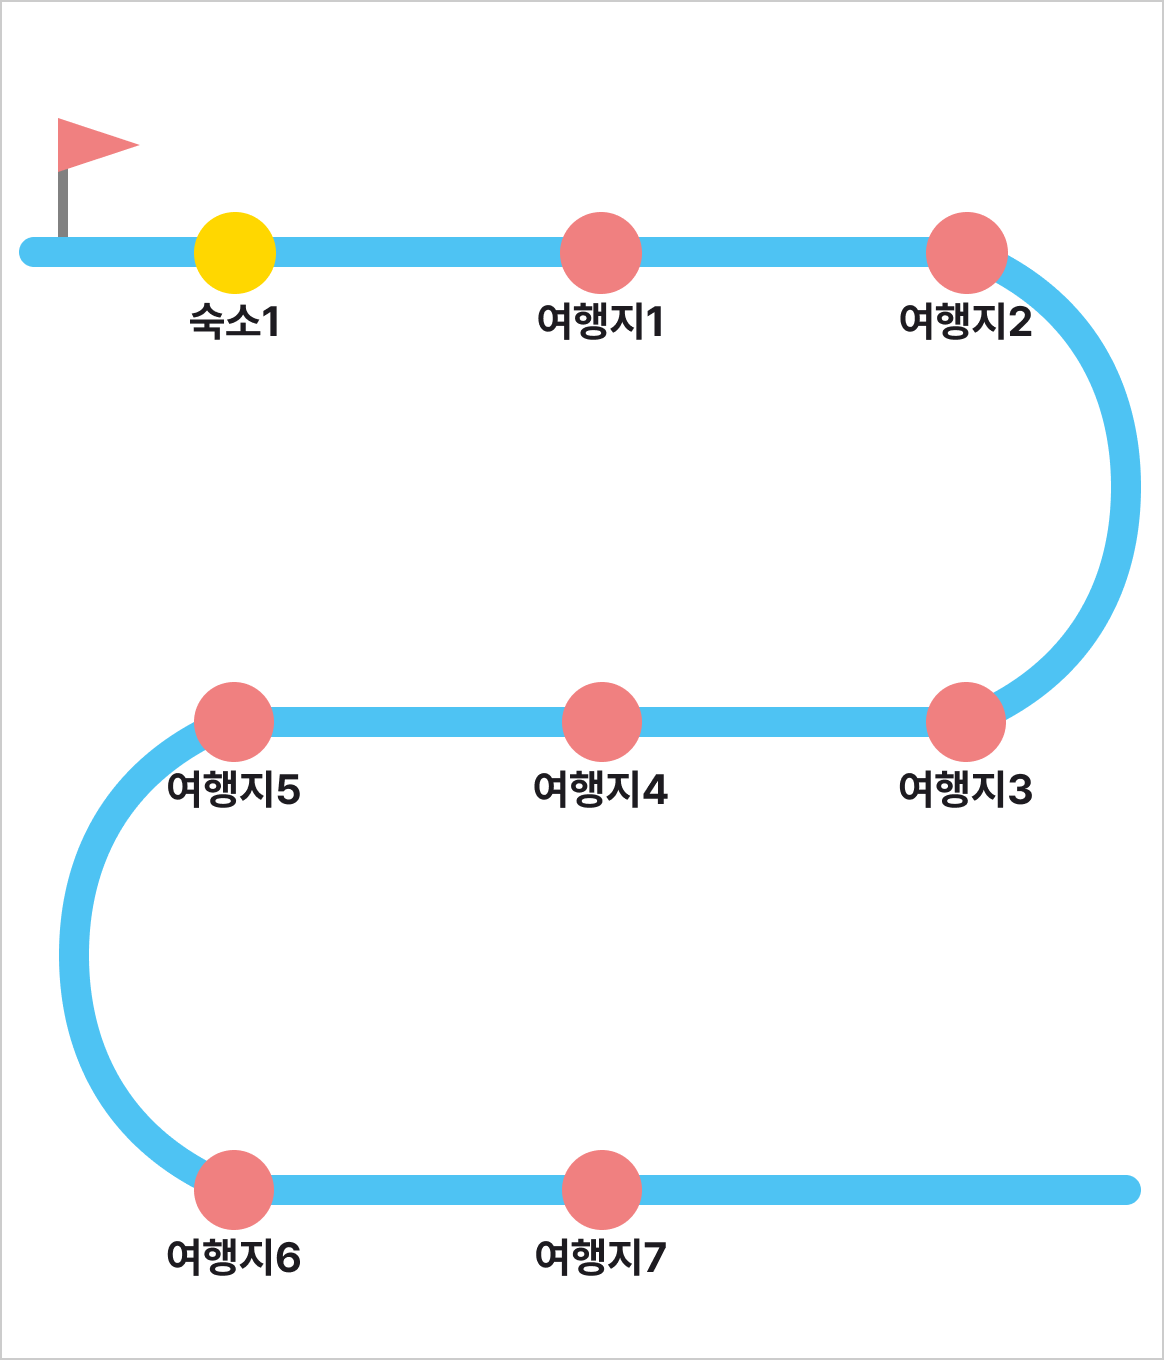
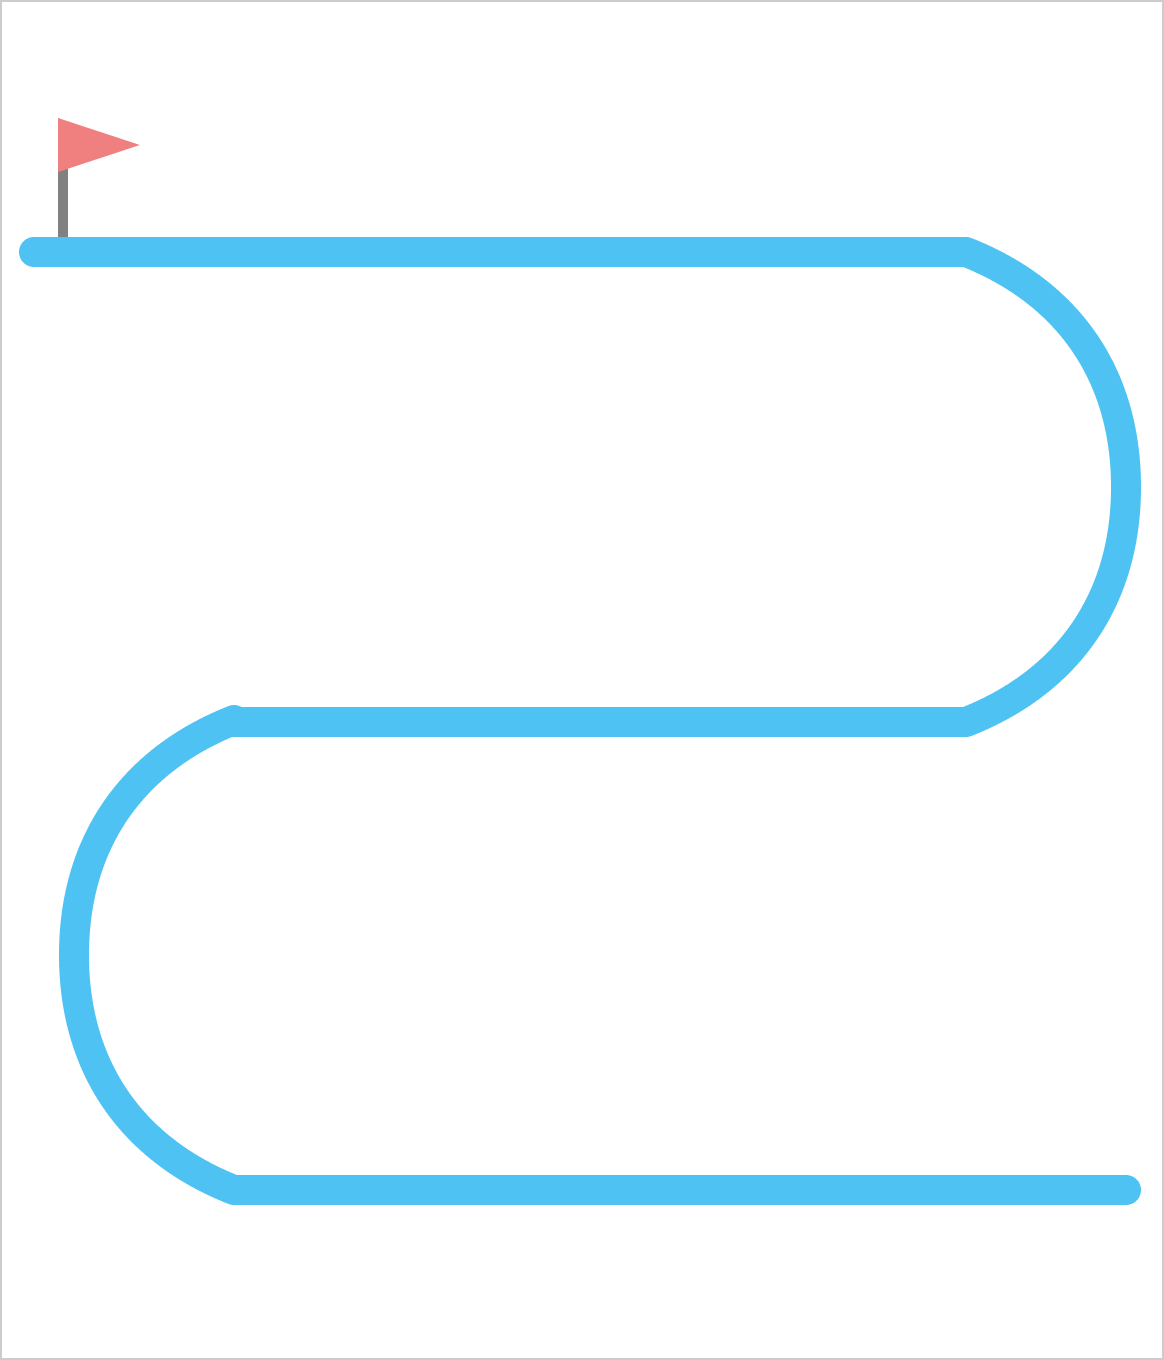
동선 수정

diff --git a/src/pages/PlanRoomResult.jsx b/src/pages/PlanRoomResult.jsx
@@ -14,6 +14,8 @@ import OutImage from '../buttonimage/outbutton.png';
 import prevImage from '../buttonimage/prebutton.png';
 import DownImage from '../buttonimage/down.png';
 import SaveImage from '../buttonimage/save.png';
+import TravelImage from '../buttonimage/travel.png';
+import RouteImage from '../buttonimage/route.png';
 import html2canvas from 'html2canvas';
 import * as XLSX from 'xlsx';
 // 전체
@@ -83,7 +85,7 @@ const SectionTitle = styled.h2`
 
 const StyledMapContainer = styled.div`
   width: 100%;
-  height: 515px;
+  height: 630px;
   background-color: #f0f0f0;
   box-shadow: 0px 4px 8px rgba(0, 0, 0, 0.1);
   display: flex;
@@ -122,7 +124,8 @@ const Button = styled.button`
 `;
 
 const RouteContainer = styled.div`
-  height: 475px;
+  background: url(${TravelImage}) no-repeat center center;
+  height: 580px;
   background-size: cover;
   padding: 20px;
   position: relative;
@@ -130,16 +133,47 @@ const RouteContainer = styled.div`
   flex-direction: column;
   align-items: center;
   gap: 10px;
-  border: 2px solid black;
+  border: 1px solid lightgray;
+`;
+
+const FlexWrap = styled.div`
+  display: flex;
+  flex-wrap: wrap;
+  margin: 0px 30px 0px 30px;
+  gap: 55px; /* Adjust gap to fit both items and buttons */
+`;
+
+const Circle = styled.div`
+  position: absolute;
+  top: -20px; /* 동그라미 위치 조정 */
+  left: 50%;
+  transform: translateX(-50%);
+  width: 40px;
+  height: 40px;
+  background-color: #f08080;
+  border-radius: 50%;
+  z-index: 2;
+`;
+
+const Item = styled.div`
+  display: ${({ isIncludedInRoute }) => (isIncludedInRoute ? 'flex' : 'none')};
+  position: relative; // 상대적 위치 설정
+  z-index: 1; // 기본적으로 장소가 다른 요소보다 아래에 표시됨
+  margin: 67px 30px; //개별
+  order: ${({ order }) => order}; // 순서 설정
 `;
 
 const RouteButton = styled.div`
-  color: black;
-  font-size: 15px;
+  position: absolute; // 절대 위치로 설정
+  right: -90px; // 장소의 오른쪽으로 위치 조정
+  top: 50%; // 수직 중앙에 위치
+  transform: translateY(-50%); // 수직 중앙 정렬
+  width: 50px;
+  height: 20px;
+  background: url(${RouteImage}) no-repeat center center;
+  background-size: contain;
+  border: none;
   cursor: pointer;
-  background-color: rgb(0, 0, 0, 0);
-  border-radius: 5px;
-  text-align: center;
 `;
 
 const BottomWrapper = styled.div`
@@ -247,24 +281,29 @@ L.Icon.Default.mergeOptions({
 
 // 장소와 동선 데이터 예제
 const locations = [
-  { id: 1, name: '장소 1', position: [37.5665, 126.978] },
-  { id: 2, name: '장소 2', position: [37.5651, 126.9895] },
-  { id: 3, name: '장소 3', position: [37.57, 126.983] },
-  { id: 4, name: '장소 4', position: [37.568, 126.98] },
-  { id: 5, name: '장소 5', position: [37.57, 126.988] },
-  { id: 6, name: '장소 6', position: [37.572, 126.99] },
-  { id: 7, name: '장소 7', position: [37.573, 126.992] },
+  { id: 1, name: '숙소 ', position: [37.5665, 126.978] },
+  { id: 2, name: '여행지 1', position: [37.5651, 126.9895] },
+  { id: 3, name: '여행지 2', position: [37.568, 126.98] },
+  { id: 4, name: '여행지 3', position: [37.57, 126.983] },
+  { id: 5, name: '여행지 4', position: [37.57, 126.988] },
+  { id: 6, name: '여행지 5', position: [37.572, 126.99] },
+  { id: 7, name: '여행지 6', position: [37.573, 126.992] },
 ];
 
 const routes = {
   1: [
     [37.5665, 126.978],
     [37.5651, 126.9895],
+    [37.568, 126.98],
     [37.57, 126.983],
+    [37.57, 126.988],
+    [37.572, 126.99],
+    [37.573, 126.992],
   ],
   2: [
     [37.5665, 126.978],
     [37.5651, 126.9895],
+    [37.568, 126.98],
   ],
   // 추가 동선 데이터
 };
@@ -302,7 +341,7 @@ function PlanRoomResult() {
     setShowTime(!showTime);
   };
 
-  // 동선에 포함된 장소만 필터링
+  // 동선에 포함된 여행지만 필터링
   const activeRouteLocations = activeRoute
     ? routes[activeRoute].map((point) =>
         locations.find(
@@ -340,7 +379,7 @@ function PlanRoomResult() {
   };
 
   const handleSaveAsExcel = () => {
-    // 현재 활성화된 동선에 포함된 장소만 필터링
+    // 현재 활성화된 동선에 포함된 여행지만 필터링
     const filteredLocations = activeRoute
       ? locations.filter((location) =>
           routes[activeRoute].some(
@@ -368,6 +407,26 @@ function PlanRoomResult() {
     setIsSaved(true);
     setIsModalOpen(false);
     setShowDownImage(true);
+  };
+
+  //장소위치조정
+  const getOrder = (index) => {
+    const itemsPerLine = 3;
+    const lineNumber = Math.floor(index / itemsPerLine);
+
+    // 3번째 위치부터 오른쪽 정렬
+    if (lineNumber >= 1) {
+      if (lineNumber % 2 === 0) {
+        // 짝수 번째 줄 (3, 5, 7, ...)
+        return itemsPerLine - (index % itemsPerLine); // 오른쪽부터 정렬
+      } else {
+        // 홀수 번째 줄 (4, 6, 8, ...)
+        return index % itemsPerLine; // 왼쪽부터 정렬
+      }
+    }
+
+    // 첫 번째 줄은 중앙 정렬
+    return index;
   };
 
   return (
@@ -427,64 +486,35 @@ function PlanRoomResult() {
             </ButtonContainer>
             <RouteContainer>
               {activeRoute && (
-                <div>
-                  <div
-                    style={{
-                      display: 'flex',
-                      flexWrap: 'wrap',
-                      margin: '40px',
-                      gap: '50px',
-                      justifyContent: 'center',
-                    }}
-                  >
-                    {locations.map((location) => {
-                      const isIncludedInRoute = activeRouteLocations.some(
-                        (loc) => loc && loc.id === location.id
-                      );
-                      return (
-                        <div
-                          key={location.id}
-                          style={{
-                            display: 'flex',
-                            flexDirection: 'column',
-                            alignItems: 'center',
-                          }}
+                <FlexWrap>
+                  {activeRouteLocations.map((location, index) => {
+                    const isIncludedInRoute = location !== undefined;
+                    return (
+                      <React.Fragment key={location.id}>
+                        <Item
+                          isIncludedInRoute={isIncludedInRoute}
+                          order={getOrder(index)} // 순서 설정
                         >
-                          <div
-                            style={{
-                              width: '50px',
-                              height: '50px',
-                              borderRadius: '50%',
-                              backgroundColor: isIncludedInRoute
-                                ? 'gray'
-                                : 'lightgray',
-                              border: 'none',
-                            }}
-                          />
-                          {isIncludedInRoute && <p>{location.name}</p>}
-                        </div>
-                      );
-                    })}
-                  </div>
-                  {showTime && (
-                    <div>
-                      {routes[activeRoute].slice(0, -1).map((start, index) => {
-                        const end = routes[activeRoute][index + 1];
-                        if (end) {
-                          return (
-                            <RouteButton
-                              key={index}
-                              onClick={() => openDirections(start, end)}
-                            >
-                              {`길찾기 ${index + 1}`}
-                            </RouteButton>
-                          );
-                        }
-                        return null;
-                      })}
-                    </div>
-                  )}
-                </div>
+                          <Circle />
+                          <p style={{ position: 'relative', top: '10px' }}>
+                            {location.name}
+                          </p>
+                          {showTime &&
+                            index < activeRouteLocations.length - 1 && (
+                              <RouteButton
+                                onClick={() =>
+                                  openDirections(
+                                    activeRouteLocations[index].position,
+                                    activeRouteLocations[index + 1].position
+                                  )
+                                }
+                              />
+                            )}
+                        </Item>
+                      </React.Fragment>
+                    );
+                  })}
+                </FlexWrap>
               )}
             </RouteContainer>
           </InfoContainer>
